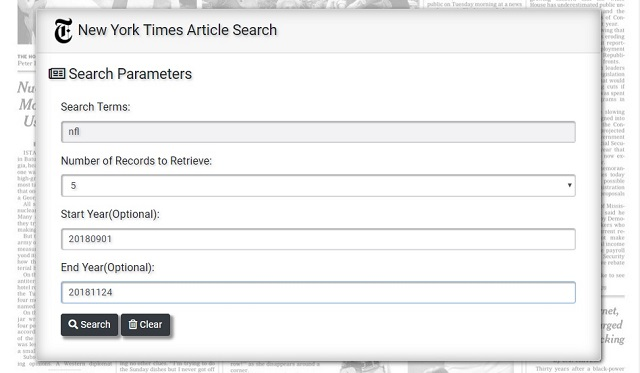
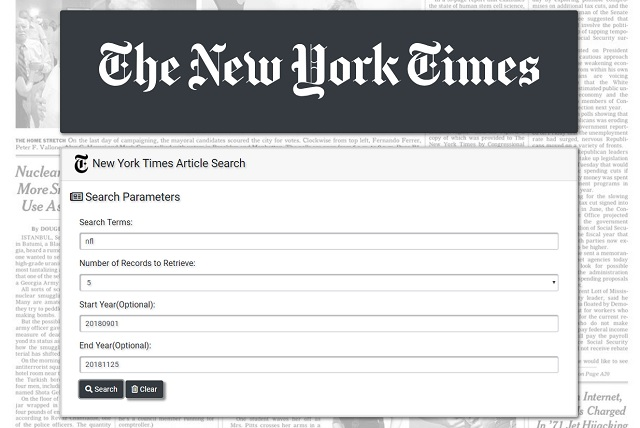
updated javascript and css

diff --git a/assets/css/NYT.css b/assets/css/NYT.css
@@ -13,8 +13,8 @@
 }
 
 .jumbotron, .card{
-    box-shadow: .25rem .25rem 1.25rem .3125rem rgba(47, 47, 47, 0.39);
-    box-shadow: inset 0rem 0rem 1.875rem .0625rem rgba(47, 47, 47, 0.39),.125rem .125rem .625rem .0625rem rgba(17, 17, 17, 0.637);
+    /* box-shadow: .25rem .25rem 1.25rem .3125rem rgba(47, 47, 47, 0.39); */
+    box-shadow: inset 0rem 0rem .3125rem .0625rem rgba(47, 47, 47, 0.39),.125rem .125rem .625rem .0625rem rgba(17, 17, 17, 0.637);
 }
 
 .btn{

diff --git a/nyt.md b/nyt.md
@@ -1,7 +1,26 @@
 # New York Times Article Search
+---
+
 
 ![NYT Front page](/assets/images/nyt1.jpg)
+Searches for articles based on the subject.
 
 ![NYT Front page](/assets/images/nyt2.jpg)
 
+
+1. Enter the subject that you want to search for.
+
+2. Choose the number of articles to search for.  Minimum 1. Max 5
+
+3. The date is optional.  Must be entered in the *YYYYMMDD*  format.
+
+
 ![NYT Front page](/assets/images/nyt3.jpg)
+
+
+---
+### Technologies used:
+
+### URL:
+
+
